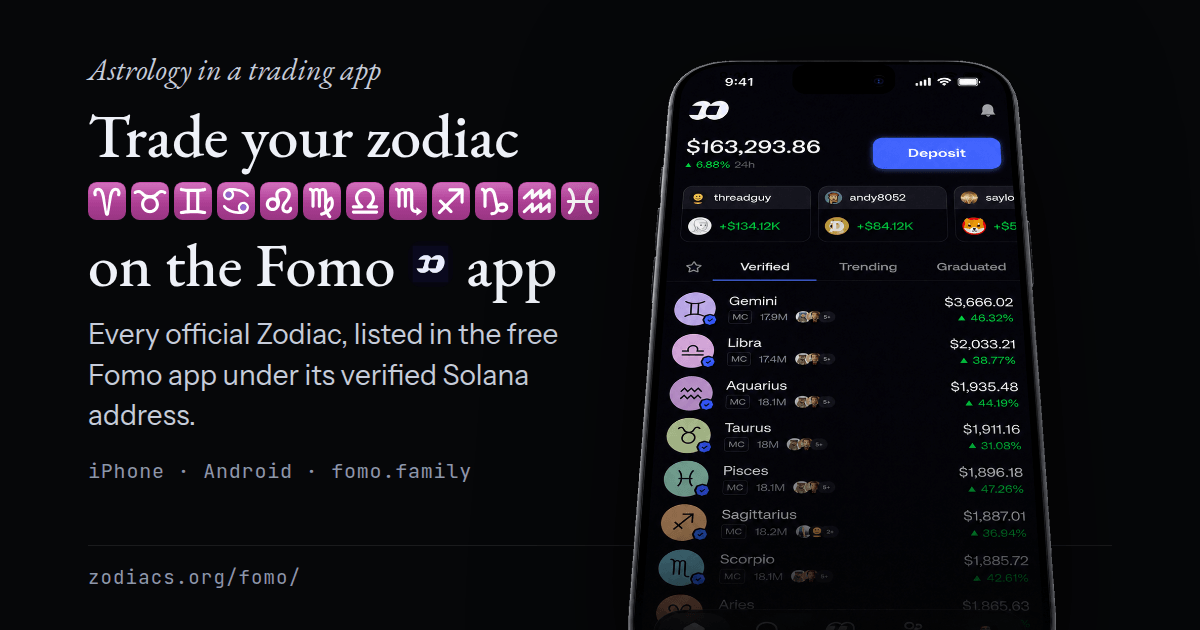
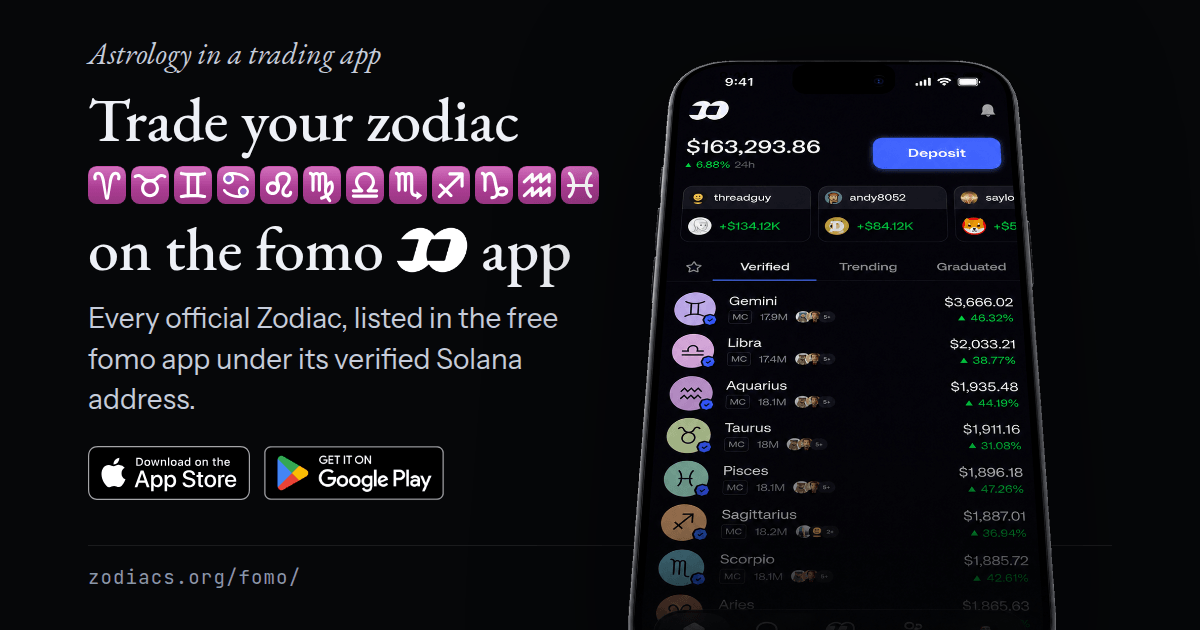
Fomo page: "fomo" in lower case, the eyes alone as the mark, badges on the card
The word is set as fomo writes it, lower case, throughout the page and
the share card. The inline mark becomes fomo's eyes alone: the glyph of
its app icon with the dark tile keyed to alpha (nothing redrawn,
provenance in docs/VENUE-MARKS.md), set larger than the tiled icon was.
On the share card the "iPhone · Android · fomo.family" line gives way to
the App Store and Google Play badges as the page shows them.

Claude-Session: https://claude.ai/code/session_01TEkNiYjC21tAnPv21KQUun

Changed region(s): [[0.0617, 0.0603, 0.5242, 0.8143]]

diff --git a/docs/VENUE-MARKS.md b/docs/VENUE-MARKS.md
@@ -19,6 +19,7 @@ is ordered alphabetically and never ranked.
 
 | File | Source | Retrieved | Notes |
 | --- | --- | --- | --- |
+| `fomo-eyes.png` | derived from `fomo-official.svg` (below) | 2026-09-07 | fomo's eyes alone: the embedded raster's glyph cropped to its bounds with the dark tile keyed to alpha by luminance, nothing redrawn. Set after the word "fomo" on `/fomo/` and its share card at text size, in place of the tiled icon. |
 | `fomo-official.svg` | `fomo.family/favicon.svg` | 2026-08-25 | Fomo's full-colour app icon, used only as an `<img>`: inside the consumer handoff buttons (the Astrofolio vitrine and `/fomo/`) and in the `/fomo/` phone mock-up header, where it identifies the app being depicted. It is never used as a CSS mask or presented as an endorsement. |
 | `coinbase.svg` | `static-assets.coinbase.com/ui-infra/illustration/v1/pictogram/svg/light/coinbaseLogoNavigation-4.svg` | 2026-08-05 | Coinbase's own navigation pictogram. Brand blue replaced with ink; viewBox tightened 40→34 units. |
 | `moonpay.svg` | `www.moonpay.com/safari-pinned-tab.svg` | 2026-08-05 | MoonPay's Safari pinned-tab mask — already monochrome on transparency. Potrace preamble and metadata stripped; viewBox tightened. |
